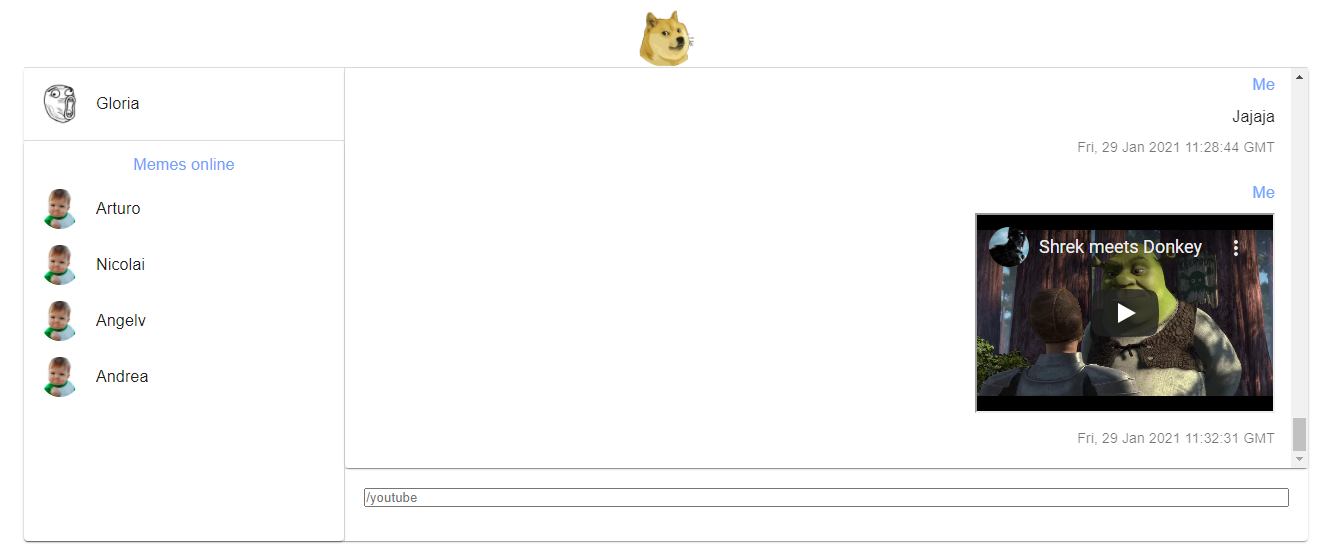
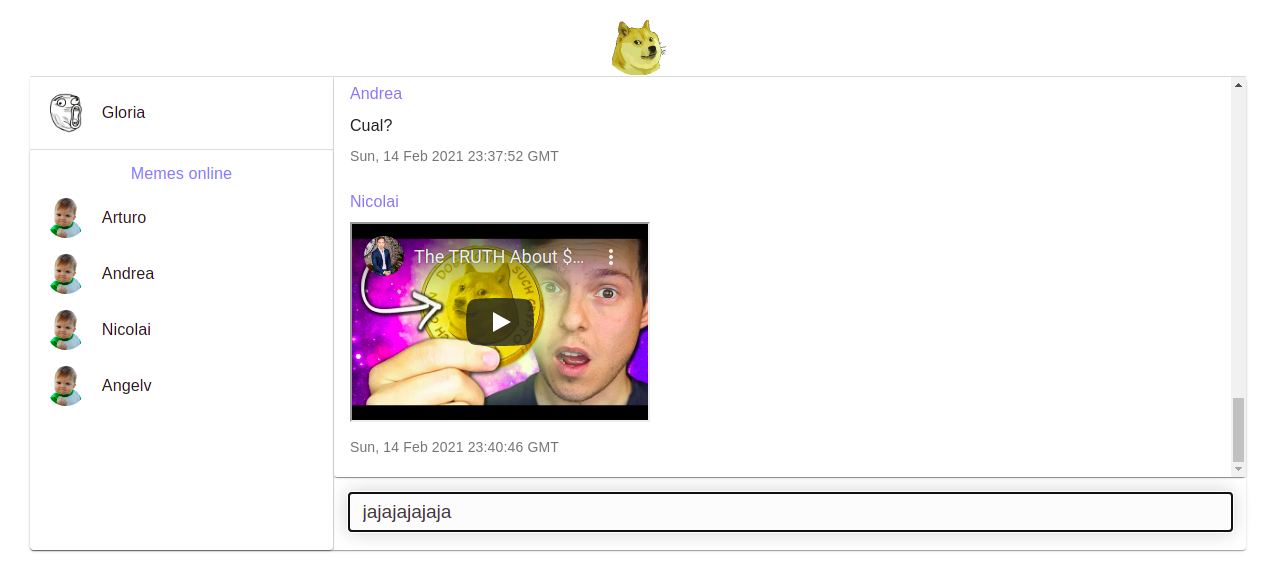
Improve the documentation with images and a better explanaition

diff --git a/README.md b/README.md
@@ -6,14 +6,6 @@
 
 Meme chat is an Internet Relay Chat using Node.js. This service lets you communicate in real-time with your friends. You also can share youtube videos in the chat.
 
-## Visuals :camera:
-
-### ![Meme chat](assets/login-meme-chat.png)
-### ![Meme chat](assets/signin-meme-chat.png)
-### ![Meme chat](assets/messages-meme-chat.png)
-### ![Meme chat](assets/youtube-meme-chat.png)
-### ![Meme chat](assets/send-youtube-meme-chating.png)
-
 ## Installation :floppy_disk:
 
 In Ubuntu:
@@ -32,6 +24,12 @@ foo@bar:~/meme-chat$ cd backend
 foo@bar:~/meme-chat/backend$ npm install
 ```
 
+- Execute the backend service:
+
+```console
+foo@bar:~/meme-chat/backend$ npm start
+```
+
 - Go back to the meme_chat folder and go to frontend folder and install all the needed dependencies:
 
 ```console
@@ -39,27 +37,49 @@ foo@bar:~/meme-chat$ cd frontend
 foo@bar:~/meme-chat/frontend$ npm install
 ```
 
-## Usage :open_file_folder:
-
-- Go inside the backend folder and execute the backend service:
-
-```console
-foo@bar:~/meme-chat/backend$ npm start
-```
-
-- Go inside the frontend folder and execute the frontend service:
+- Execute the frontend service:
 
 ```console
 foo@bar:~/meme-chat/frontend$ npm start
 ```
-- Note1: the backend runs in port 5000 by default.
-- Note2: the frontend runs in port 3000 by default.
+- Note1: the backend runs in host 0.0.0.0, port 5000 by default.
+- Note2: the frontend runs in host 0.0.0.0 port 3000 by default.
+
+## Usage :open_file_folder:
+
+0. Signin on memechat setting your nickname and your password
+ ![Sigin](assets/signin-meme-chat.png)
+1. Login on memechat with you credentials in the service
+ ![Login](assets/login-meme-chat.png)
+2. Start to chat with your friend connected
+ ![Meme chat](assets/messages-meme-chat.png)
+3. Watch videos that your friends sent you
+ ![Meme chat](assets/youtube-meme-chat.png)
+4. Send videos to your friends
+ ![Meme chat](assets/send-youtube-meme-chating.png)
+- Note: to share videos, you must type the following command and press the Enter key: "/ youtube word_to_search", without the double comma. Example: / youtube memes. Once you have chosen the meme to send, you must click on it to send it through the chat.
 
 ## Support :email:
 
 LinkedIn:
 
 - [Arturo Victoria Rincon](https://www.linkedin.com/in/arturovictoriar/)
+
+Twitter:
+
+- [Arturo Victoria Rincon](https://twitter.com/arturovictoriar)
+
+Portfolio website:
+
+- [Arturo Victoria Rincon](http://arturovictoriar.github.io/)
+
+## Authors and acknowledgment :school:
+
+Arturo Victoria Rincon is Mechatronics Engineer with innate leadership and adaptability skills. Focused on developing software to improve people's quality of life using tools such as Python, Javascript, C, and C ++.
+
+## License :warning:
+
+:copyright: 2021 All rights reserved.
 
 ## Project status :white_check_mark:
 
